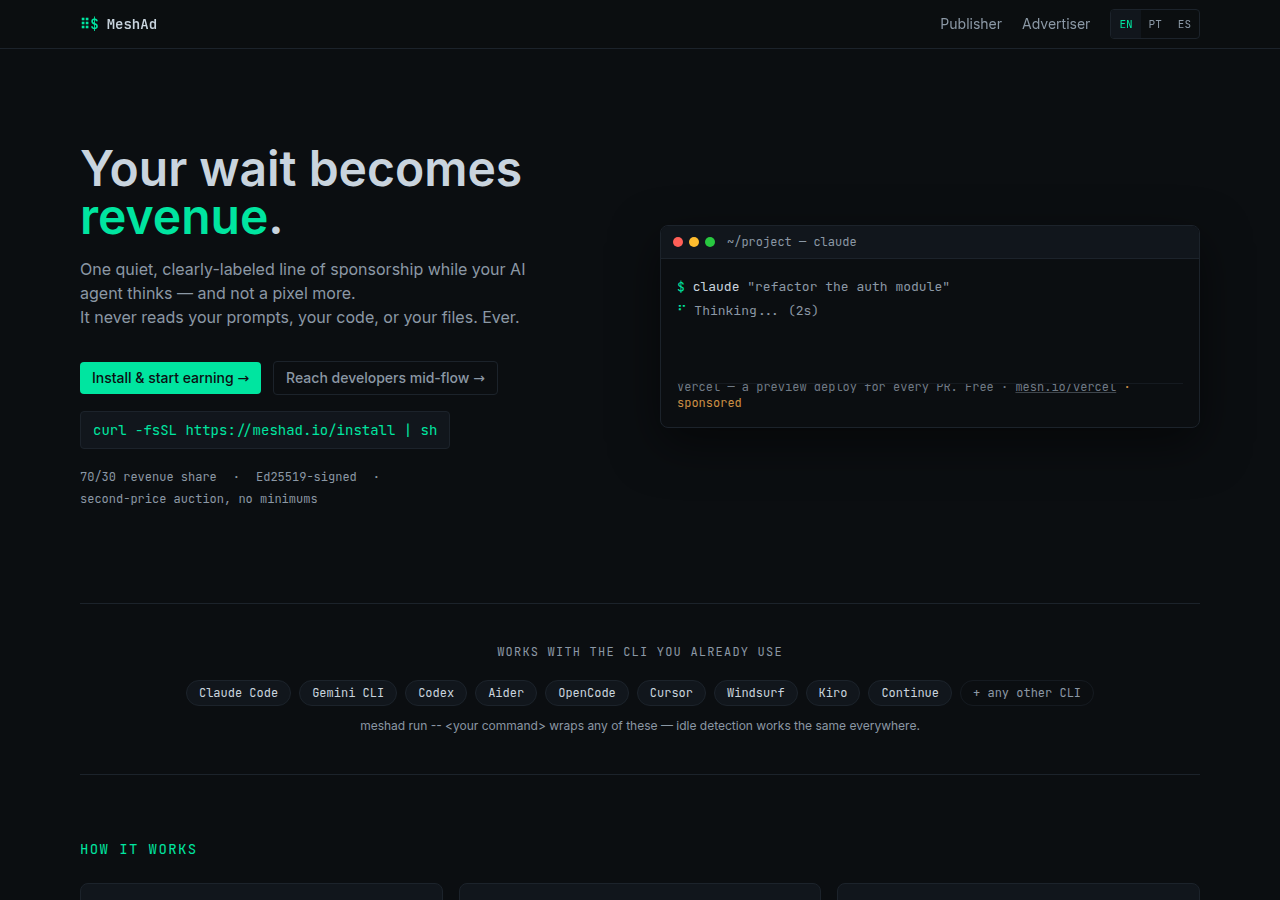
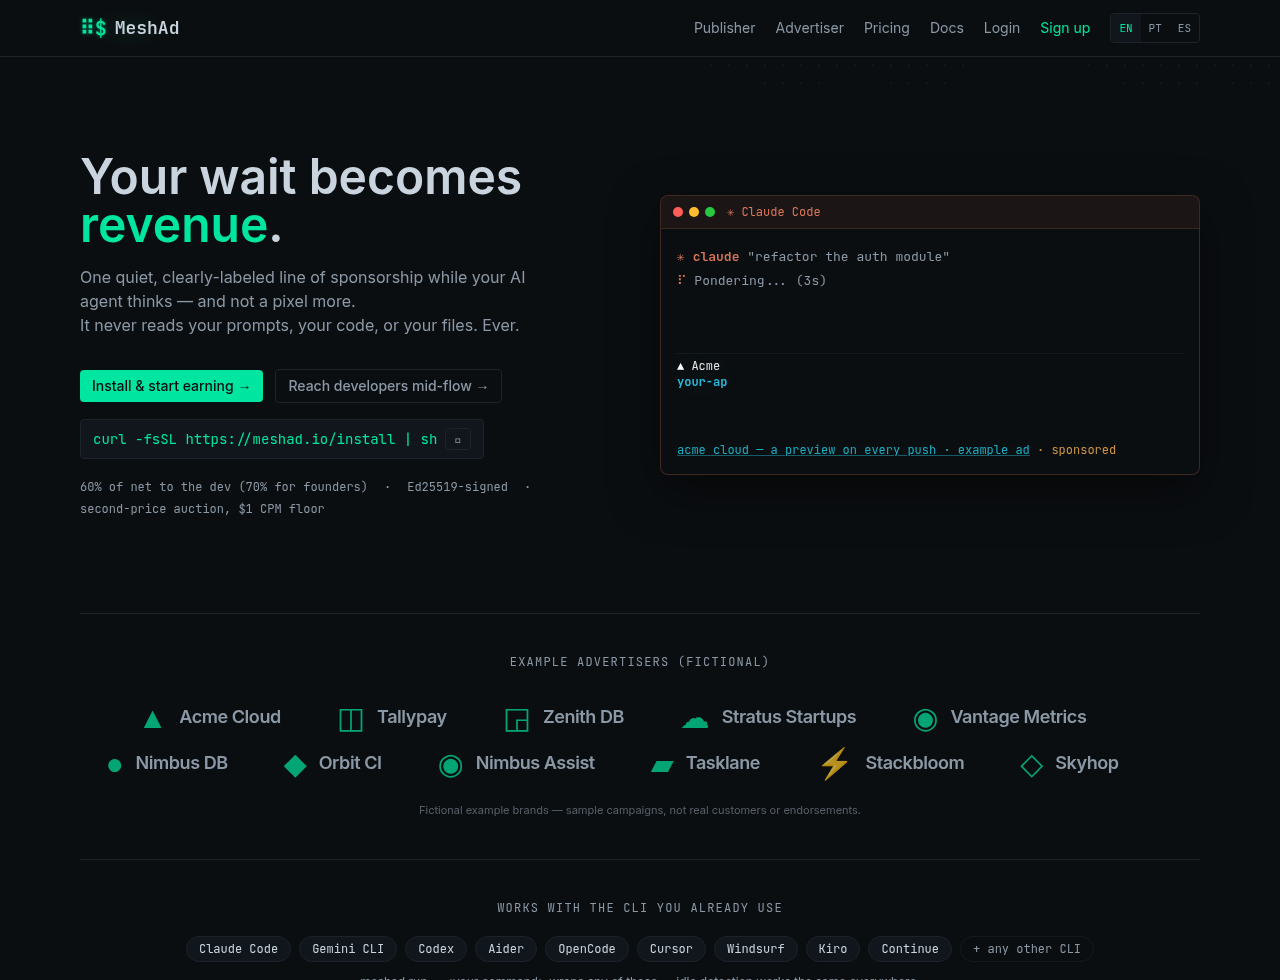
docs: recapture landing, advertiser and publisher screenshots
Replace outdated shots that still showed real brands, a 70% rev share
and Connect Stripe. The new images come from the live site after the
#32 deploy: fictional example advertisers on the landing, the public
publisher page with honest payouts copy, and a demo advertiser account
with fictional draft campaigns.

diff --git a/index.html b/index.html
@@ -226,8 +226,16 @@
       <h2 class="eyebrow">see it running</h2>
       <div class="shots">
         <figure>
-          <img src="assets/meshad-publisher.png" alt="MeshAd publisher dashboard, showing earnings, a chart, preferences, Stripe Connect, and CLI key setup">
-          <figcaption>Publisher dashboard — earnings, payout setup, CLI key</figcaption>
+          <img src="assets/meshad-landing.png" alt="MeshAd landing page, showing the hero, a fictional Acme Cloud example ad, and supported CLIs">
+          <figcaption>The live product at meshad.io — example advertisers are fictional</figcaption>
+        </figure>
+        <figure>
+          <img src="assets/meshad-publisher.png" alt="MeshAd publisher page, with revenue share and payouts coming soon via Stripe Connect, PayPal and USDC">
+          <figcaption>Publisher page — revenue share, privacy contract, payouts coming soon</figcaption>
+        </figure>
+        <figure>
+          <img src="assets/meshad-advertiser.png" alt="MeshAd advertiser dashboard, showing a zero balance and fictional draft campaigns">
+          <figcaption>Advertiser dashboard — demo account with fictional draft campaigns</figcaption>
         </figure>
       </div>
     </section>

diff --git a/README.md b/README.md
@@ -1,3 +1,7 @@
+<p align="center">
+  <img src="assets/meshad-landing.png" alt="MeshAd product landing preview" width="920">
+</p>
+
 <h1 align="center">MeshAd</h1>
 
 <p align="center">
@@ -7,6 +11,7 @@
 <p align="center">
   <a href="https://meshad.io"><strong>Website</strong></a> ·
   <a href="https://api.meshad.io/healthz"><strong>API Health</strong></a> ·
+  <a href="#product-screenshots"><strong>Screenshots</strong></a> ·
   <a href="#how-it-works"><strong>How it works</strong></a>
 </p>
 
@@ -28,9 +33,17 @@ AI agents spend real time thinking, planning, indexing and executing. MeshAd tur
 
 ## Product screenshots
 
-### Publisher dashboard
+### Landing experience
 
-![MeshAd publisher dashboard](assets/meshad-publisher.png)
+![MeshAd landing](assets/meshad-landing.png)
+
+### Publisher page
+
+![MeshAd publisher page](assets/meshad-publisher.png)
+
+### Advertiser dashboard
+
+![MeshAd advertiser dashboard](assets/meshad-advertiser.png)
 
 ## Install the CLI
 
